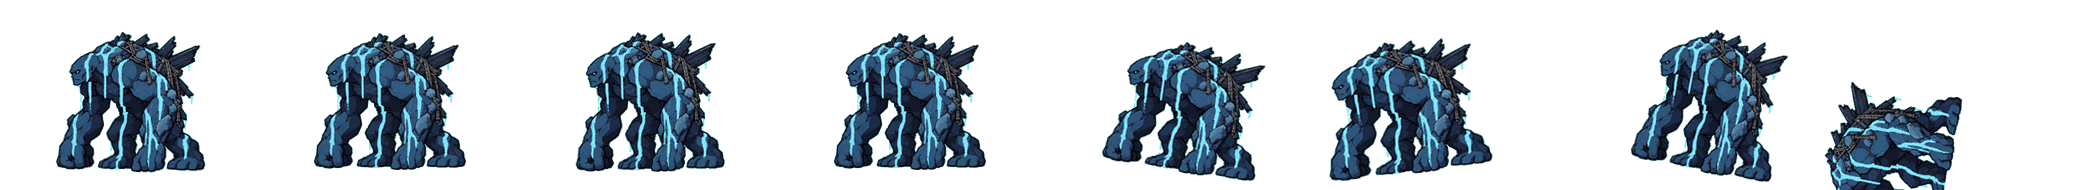
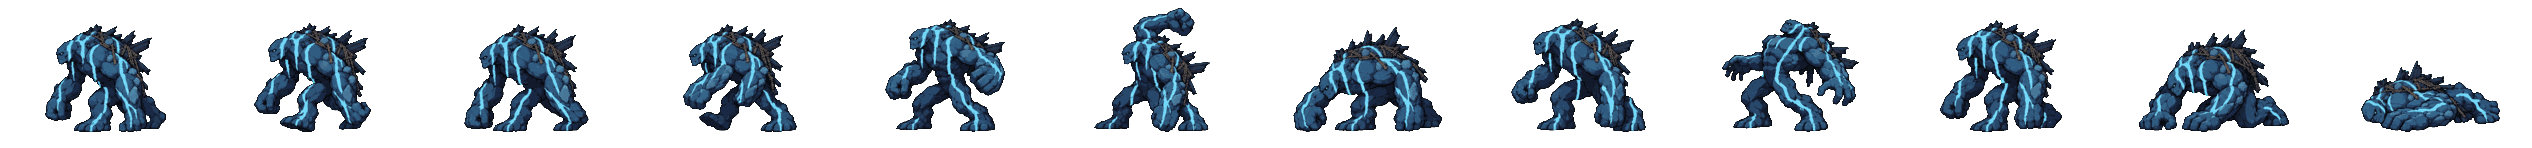
Homme rouge, golem et tatou : vraies animations de 12 cases

diff --git a/monster-sprite.js b/monster-sprite.js
@@ -14,10 +14,10 @@ const monsterClips = {
   insecte: { cell: [211, 148], anchor: [105, 132], stand: 100, reach: 100, walk: [0, 1, 2, 3], walkSeconds: .09, windup: 4, strike: 5, hurt: 6, strikeSeconds: .2 },
   rampant: { cell: [211, 148], anchor: [105, 132], stand: 85, reach: 100, walk: [0, 1, 2, 3], walkSeconds: .13, windup: 4, strike: 5, hurt: 6, strikeSeconds: .2 },
   crabe: { cell: [211, 148], anchor: [105, 132], stand: 72, reach: 100, walk: [0, 1, 2, 3], walkSeconds: .17, windup: 4, strike: 5, hurt: 6, strikeSeconds: .2 },
-  // Trois monstres de profil, animés par transformations (bande fabriquée par convertir-packs.py ; cases de 260 x 190, pieds à 172).
-  rouge: { cell: [260, 190], anchor: [130, 172], stand: 108, reach: 116, walk: [0, 1, 2, 3], walkSeconds: .11, windup: 4, strike: 5, hurt: 6, strikeSeconds: .2 },
-  golem: { cell: [260, 190], anchor: [130, 172], stand: 140, reach: 150, walk: [0, 1, 2, 3], walkSeconds: .2, windup: 4, strike: 5, hurt: 6, strikeSeconds: .3 },
-  tatou: { cell: [260, 190], anchor: [130, 172], stand: 80, reach: 92, walk: [0, 1, 2, 3], walkSeconds: .12, windup: 4, strike: 5, hurt: 6, strikeSeconds: .2 },
+  // Homme rouge, golem, tatou (pack de 12 cases de 211 x 148) : 0 à 3 marche, 4 à 7 attaque (4 annonce, 6 impact), 8 et 9 dégâts, 10 et 11 défaite.
+  rouge: { cell: [211, 148], anchor: [105, 132], stand: 100, reach: 112, walk: [0, 1, 2, 3], walkSeconds: .12, windup: 4, strike: 6, hurt: 8, strikeSeconds: .2 },
+  golem: { cell: [211, 148], anchor: [105, 132], stand: 108, reach: 132, walk: [0, 1, 2, 3], walkSeconds: .19, windup: 4, strike: 6, hurt: 8, strikeSeconds: .3 },
+  tatou: { cell: [211, 148], anchor: [105, 132], stand: 75, reach: 90, walk: [0, 1, 2, 3], walkSeconds: .13, windup: 4, strike: 6, hurt: 8, strikeSeconds: .2 },
   spider: { cell: [224, 168], anchor: [112, 158], stand: 125, reach: 125, walk: [0, 1, 2, 3], walkSeconds: .1, windup: 4, strike: 5, hurt: 6, blinded: 7, incapacitated: 8, strikeSeconds: .22 }
 };
 const monsterArt = { strips: {} };
@@ -28,7 +28,7 @@ function loadMonsterArt() {
     const image = new Image();
     image.onload = () => { monsterArt.strips[name] = image; };
     image.onerror = () => { monsterArt.strips[name] = null; };
-    image.src = `assets/monsters/${name}.png?v=63`;
+    image.src = `assets/monsters/${name}.png?v=64`;
   }
 }
 

diff --git a/index.html b/index.html
@@ -184,7 +184,7 @@
   <script src="zones.js?v=59" defer></script>
   <script src="state.js?v=59" defer></script>
   <script src="yarden-sprite.js?v=42" defer></script>
-  <script src="monster-sprite.js?v=63" defer></script>
+  <script src="monster-sprite.js?v=64" defer></script>
   <script src="encounter.js?v=48" defer></script>
   <script src="scene.js?v=56" defer></script>
   <script src="chapitre2b.js?v=59" defer></script>

diff --git a/docs/art/outils/convertir-packs.py b/docs/art/outils/convertir-packs.py
@@ -143,40 +143,6 @@ def place_scaled(cells, scale, cell_w, cell_h, anchor, dst, colors=96):
     Image.fromarray(arr, 'RGBA').quantize(colors=colors, method=Image.FASTOCTREE, dither=Image.NONE).save(dst, optimize=True)
     print(dst)
 
-def synth_strip(src, box, name, height, cell=(260, 190), anchor=(130, 172), walk=(3, 1.5, 0.0), defeat=(78, .9), dst='assets/monsters/'):
-    """Fabrique une bande de 8 cases (4 marche, annonce, coup, dégâts, défaite) à partir d'UN dessin de profil tourné vers la gauche.
-    Les mouvements sont des transformations (rebond, penché, étirement, chute) : une vraie animation dessinée les remplacera plus tard.
-    walk = (rebond en px, inclinaison en degrés, balancement horizontal en px)."""
-    sheet = key(src)
-    x0, x1 = box
-    part = sheet[:, x0:x1].copy()
-    keep = largest(part[..., 3] > 24)
-    part[..., 3] = np.where(keep, part[..., 3], 0)
-    ys, xs = np.nonzero(part[..., 3] > 24)
-    crop = Image.fromarray(part[ys.min():ys.max() + 1, xs.min():xs.max() + 1], 'RGBA')
-    scale = height / crop.height
-    crop = crop.resize((max(1, round(crop.width * scale)), height), Image.LANCZOS)
-    bob, tilt, sway = walk
-    # (dx, dy, rotation en degrés, étirement x, étirement y) ; rotation positive = penche vers l'avant (la gauche).
-    poses = [(0, 0, -tilt, 1, 1), (sway, -bob, 0, 1.02, .98), (0, 0, tilt, 1, 1), (-sway, -bob, 0, 1.02, .98),
-             (7, 0, -9, 1.04, .93), (-18, 2, 7, 1.1, .96), (10, 0, -11, .96, 1.02), (0, 0, defeat[0], 1, defeat[1])]
-    frames = []
-    for dx, dy, angle, sx, sy in poses:
-        pose = crop.resize((max(1, round(crop.width * sx)), max(1, round(crop.height * sy))), Image.LANCZOS)
-        canvas = Image.new('RGBA', cell, (0, 0, 0, 0))
-        pivot = (anchor[0] + dx, anchor[1] + dy)
-        canvas.alpha_composite(pose, (round(pivot[0] - pose.width / 2), round(pivot[1] - pose.height)))
-        if angle:
-            canvas = canvas.rotate(angle, resample=Image.BICUBIC, center=pivot)
-        frames.append(canvas)
-    strip = Image.new('RGBA', (cell[0] * 8, cell[1]), (0, 0, 0, 0))
-    for i, frame in enumerate(frames):
-        strip.alpha_composite(frame, (i * cell[0], 0))
-    arr = np.asarray(strip).copy()
-    arr[..., 3] = np.where(arr[..., 3] <= 24, 0, arr[..., 3])
-    Image.fromarray(arr, 'RGBA').quantize(colors=128, method=Image.FASTOCTREE, dither=Image.NONE).save(dst + name + '.png', optimize=True)
-    print(dst + name + '.png')
-
 if __name__ == '__main__':
     art = 'docs/art/'
     export(art + 'faux/ramassage-lueur.png', 'assets/faux/ramassage-lueur.png', 4, clean=False)
@@ -193,7 +159,6 @@ if __name__ == '__main__':
     # Trois monstres du mode libre : bandes de 8 cases de 211 x 148 (4 déplacement, préparation, attaque, dégâts, défaite).
     for source, name in [('insecte-aile', 'insecte'), ('rampant-gris', 'rampant'), ('crabe', 'crabe')]:
         export(art + 'monstres-a-integrer/' + source + '-bande.png', 'assets/monsters/' + name + '.png', 8, colors=128)
-    # Trois monstres dessinés de profil seulement : animés par transformations (voir synth_strip).
-    synth_strip(art + 'monstres-a-integrer/guepe-rampant-homme-rouge-golem.webp', (1150, 1400), 'rouge', 108, walk=(3, 1.5, 0))
-    synth_strip(art + 'monstres-a-integrer/guepe-rampant-homme-rouge-golem.webp', (1420, 2000), 'golem', 140, walk=(2, 1, 0))
-    synth_strip(art + 'monstres-a-integrer/tatou-crabe.webp', (0, 1000), 'tatou', 80, walk=(2, 1.5, 3), defeat=(6, .55))
+    # Homme rouge, golem et tatou : bandes de 12 cases (4 marche, 4 attaque, 2 dégâts, 2 défaite).
+    for source, name in [('homme-rouge', 'rouge'), ('golem', 'golem'), ('tatou', 'tatou')]:
+        export(art + 'monstres-a-integrer/' + source + '-bande-12.png', 'assets/monsters/' + name + '.png', 12, colors=128)

diff --git a/PROJECT.md b/PROJECT.md
@@ -206,6 +206,7 @@ La zone extérieure vient en dernier et en deux temps (structure, puis contenu) 
 | 16x | implémentée, à relire et à valider sur Android | **Mode libre** (`libre.js`, section 31), proposé après « Fin du prototype » (bouton « Mode libre » sur l'écran de fin, puis bouton sur l'écran titre une fois débloqué, mémorisé dans le navigateur). Une carte (bouton « Carte ») de trois quartiers : Quartier étudiant (niv. 8), Rue Marterey (14), Sous-gare (20), chacun avec une faille dessinée dans la rue. Entrer dans la faille tire un donjon au hasard : décor parmi trois (pierre, cristal, olive), taille, blocs et monstres changent ; 5 à 8 monstres (gobelins, sauteur, fuyard, ogre) puis un chef (le Troll, sans ses phases) ; le passage de retour s'ouvre une seconde après la victoire. Mort : retour dans la rue, soignée. Ni butin, ni vente, ni XP, ni crédits. Les monstres montent d'un niveau à chaque faille vaincue (jusqu'à +6). Trente-neuf scénarios passent. Scripts `?v=61`. |
 | 16y | implémentée, à relire et à valider sur Android | Contrôle de la nouvelle interface (`ux.js`, `ux.css`, `docs/INTERFACE.md`) après fusion de `main` : aucun débordement horizontal ni erreur JavaScript sur 390 × 844, 360 × 640, 844 × 390 et 1440 × 900 (titre, pause, paramètres, statistiques, sac, carte, mode libre, faille, dialogue du 4B, écran de fin). Correctif : sur grand écran, le décor est agrandi (jusqu'à ×2, seulement si le terrain mesure au moins 620 px de large : jamais sur téléphone), car les petites salles flottaient au milieu du terrain. **Trois monstres animés** intégrés au mode libre (pack de Jordan : insecte ailé, rampant gris, crabe ; bandes de 8 cases, pose de dégâts jouée à chaque coup reçu), tirés au hasard avec les gobelins et les ogres. Quarante scénarios passent. Scripts `?v=62`. À surveiller : en paysage, le terrain devient très petit quand un dialogue est ouvert (Félix peut sortir du cadre). |
 | 16z | implémentée, à relire et à valider sur Android | Corrections après contrôle. Paysage sur téléphone : le dialogue passe à droite du terrain (42 % de la largeur), le terrain garde toute sa hauteur et Félix reste dans le cadre. PC : les jauges et l'objectif ne dépassent pas 640 px. **Six monstres animés au total** dans le mode libre : l'homme rouge, le golem de pierre et le tatou, qui n'avaient qu'un dessin de profil, sont animés par transformations (rebond, inclinaison, recul, bond, secousse, chute ; bande de 8 cases fabriquée par `synth_strip` dans `convertir-packs.py`). Le golem est un second chef de faille possible (10 PV) à côté du Troll. En attendant de vraies cases dessinées (marche, coup, défaite). Quarante scénarios passent. Scripts `?v=63`. |
+| 17a | implémentée, à relire et à valider sur Android | Pack de 12 cases de Jordan pour l'homme rouge, le golem et le tatou (marche, attaque en quatre cases, dégâts, défaite) : il remplace les animations par transformations de 16z. Annonce = case 4, impact = case 6, dégâts = case 8. Les cases de défaite (10 et 11) ne sont pas encore jouées (un monstre vaincu disparaît). Quarante scénarios passent. Scripts `?v=64`. |
 | 17 | à lancer | Bilan de la phase 2 : fluidité mesurée sur téléphone, poids des images, décision sur Godot. Soumis à validation de Jordan. |
 
 ## 10. Suite — antre de l’araignée et réveil dans la ruelle
@@ -431,4 +432,4 @@ M2, quartier Sous-gare, façade Belle Époque « trop normale », digicode, gér
 
 ## 31. Mode libre (décidé avec Jordan, 30 octobre 2026)
 
-Hors histoire, ouvert à la fin du prototype pour passer le temps : une carte de Lausanne, des failles dans les rues, un donjon différent à chaque entrée. **Décisions de Jordan** : pas de butin, pas de vente, pas d'XP ; accès par un menu « Mode libre » à la fin du prototype ; la dette de Félix (520) reste réglée au chapitre 5 avec l'argent d'Izzy. **Monstres** : l'insecte ailé, le rampant gris et le crabe sont animés et dans le jeu (pack de Jordan, `assets/monsters/`) ; l'homme rouge, le golem de pierre et le tatou n'avaient qu'un dessin de profil : ils sont animés par transformations en code d'image (ils seront remplacés par de vraies cases dessinées). Le boss du mode libre est le Troll existant en version simple (`chef`, 10 PV), pas un nouveau boss.
+Hors histoire, ouvert à la fin du prototype pour passer le temps : une carte de Lausanne, des failles dans les rues, un donjon différent à chaque entrée. **Décisions de Jordan** : pas de butin, pas de vente, pas d'XP ; accès par un menu « Mode libre » à la fin du prototype ; la dette de Félix (520) reste réglée au chapitre 5 avec l'argent d'Izzy. **Monstres** : l'insecte ailé, le rampant gris et le crabe sont animés et dans le jeu (pack de Jordan, `assets/monsters/`) ; l'homme rouge, le golem de pierre et le tatou ont leur pack de 12 cases (pack de Jordan). Le boss du mode libre est le Troll existant en version simple (`chef`, 10 PV), pas un nouveau boss.
